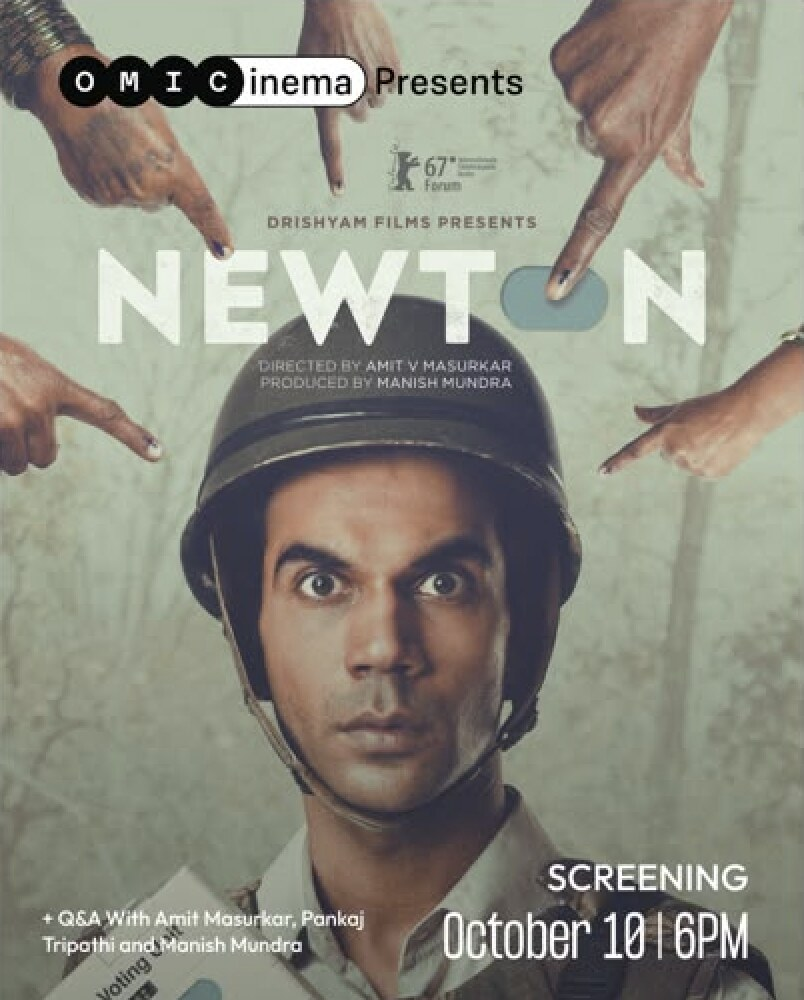
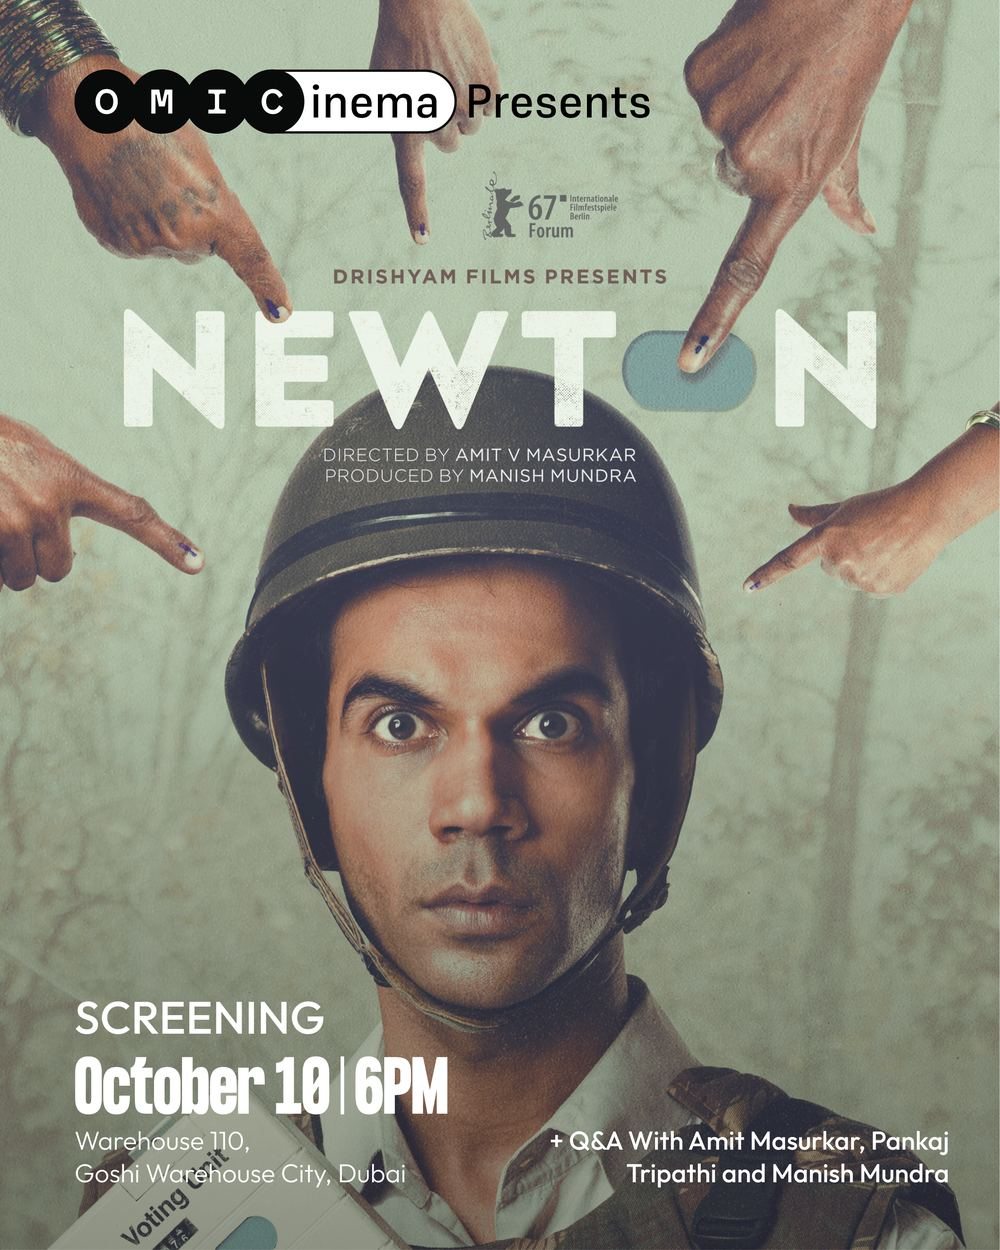
Newton: official poster, poster/trailer carousel, split notify emails
- Replaced the Newton poster with the official artwork supplied
  (OMICinema Presents / Drishyam Films, screening Oct 10 6PM at
  Goshi Warehouse City).
- The page's top image is now a poster/trailer carousel: it shows
  the poster for 2s, then a YouTube trailer thumbnail for 5s,
  looping continuously (initPosterCarousel in src/main.js). The
  trailer frame links straight to the trailer on YouTube
  (https://www.youtube.com/watch?v=yU6zMPFd4UU), opening in a new
  tab, and falls back from maxresdefault to hqdefault thumbnails
  since not every video has a maxres image. Respects
  prefers-reduced-motion by leaving the poster frame static.
- Code.gs: split the single NOTIFY_EMAIL into NEWTON_NOTIFY_EMAIL
  ('cinema@omic.spot', used only for Newton's team notification)
  and kept NOTIFY_EMAIL ('gallery@omic.spot') for every other event
  (general registration, Art Contest). Added TEST_RECIPIENT_EMAIL
  ('ayan@dviu.in') and pointed all three test_* helpers at it
  instead of a team address or a fake example.com address.

Claude-Session: https://claude.ai/code/session_01QcJZvNdZNVGEmbqVAhxTTi

diff --git a/src/main.js b/src/main.js
@@ -18,9 +18,17 @@ if (artworkForm) {
 const newtonForm = document.getElementById('newtonForm');
 
 // Only the Newton show page has this dedicated registration form (its own
-// fixed +971 phone prefix, plus seat/waitlist capacity logic).
+// UAE/India phone country select, guest-count picker, and seat/waitlist
+// capacity logic).
 if (newtonForm) {
   initNewtonForm();
+}
+
+const newtonPosterCarousel = document.getElementById('newtonPosterCarousel');
+
+// Only the Newton show page has the poster/trailer carousel.
+if (newtonPosterCarousel) {
+  initPosterCarousel(newtonPosterCarousel);
 }
 
 const artistModal = document.getElementById('artistModal');
@@ -980,6 +988,37 @@ function initNewtonForm() {
     goToThankYou(eventName, 'registration');
   });
 } // end initNewtonForm
+
+// Cross-fades between the poster image and a YouTube trailer thumbnail:
+// poster visible for 2s, then the trailer frame for 5s, looping forever.
+// Takes the carousel's root element so a page can wire up more than one of
+// these if it ever needs to. Clicking the trailer frame opens the trailer
+// on YouTube in a new tab (it's a real <a>, so this works even if the JS
+// below never runs); clicking the poster frame does nothing special.
+function initPosterCarousel(root) {
+  const layers = Array.from(root.querySelectorAll('.poster-carousel__layer'));
+  if (layers.length < 2) return;
+
+  // Respect reduced-motion: leave whichever frame is already marked
+  // visible in the HTML (the poster) showing, and don't auto-rotate.
+  if (window.matchMedia && window.matchMedia('(prefers-reduced-motion: reduce)').matches) {
+    return;
+  }
+
+  const DURATIONS = [2000, 5000]; // poster, then trailer
+  let activeIndex = layers.findIndex((layer) => layer.classList.contains('is-visible'));
+  if (activeIndex === -1) activeIndex = 0;
+
+  function showNext() {
+    const nextIndex = (activeIndex + 1) % layers.length;
+    layers[activeIndex].classList.remove('is-visible');
+    layers[nextIndex].classList.add('is-visible');
+    activeIndex = nextIndex;
+    setTimeout(showNext, DURATIONS[activeIndex]);
+  }
+
+  setTimeout(showNext, DURATIONS[activeIndex]);
+}
 
 function initArtistModal() {
   const modalPhoto = document.getElementById('artistModalPhoto');

diff --git a/src/style.css b/src/style.css
@@ -394,6 +394,84 @@ a {
   margin-bottom: 20px;
 }
 
+/* Poster/trailer carousel (e.g. Newton's page): two absolutely-positioned
+   layers cross-fade in and out, driven by initPosterCarousel in
+   src/main.js. The container keeps the poster's own portrait aspect ratio
+   so nothing shifts when the trailer frame (a 16:9 YouTube thumbnail)
+   swaps in -- that frame uses object-fit: contain instead of cover so the
+   whole thumbnail stays visible, letterboxed, rather than being cropped
+   to a portrait sliver. */
+.poster-carousel {
+  position: relative;
+  width: 100%;
+  aspect-ratio: 4 / 5;
+  border-radius: var(--radius);
+  border: 1px solid var(--cream-line);
+  overflow: hidden;
+  margin-bottom: 20px;
+  background: #15130f;
+}
+
+.poster-carousel__layer {
+  position: absolute;
+  inset: 0;
+  width: 100%;
+  height: 100%;
+  display: block;
+  opacity: 0;
+  transition: opacity 0.6s ease;
+}
+
+.poster-carousel__layer.is-visible {
+  opacity: 1;
+}
+
+.poster-carousel__poster {
+  object-fit: cover;
+}
+
+.poster-carousel__trailer {
+  background: #15130f;
+}
+
+.poster-carousel__trailer img {
+  width: 100%;
+  height: 100%;
+  object-fit: contain;
+  display: block;
+}
+
+.poster-carousel__play {
+  position: absolute;
+  top: 50%;
+  left: 50%;
+  transform: translate(-50%, -50%);
+  width: 52px;
+  height: 52px;
+  border-radius: 999px;
+  background: rgba(0, 0, 0, 0.65);
+  color: #fff;
+  display: flex;
+  align-items: center;
+  justify-content: center;
+  pointer-events: none;
+}
+
+.poster-carousel__trailer-label {
+  position: absolute;
+  left: 14px;
+  bottom: 14px;
+  padding: 6px 12px;
+  border-radius: 999px;
+  background: rgba(0, 0, 0, 0.65);
+  color: #fff;
+  font-size: 12px;
+  font-weight: 700;
+  letter-spacing: 0.03em;
+  text-transform: uppercase;
+  pointer-events: none;
+}
+
 .tag-row {
   display: flex;
   flex-wrap: wrap;

diff --git a/newton.html b/newton.html
@@ -60,7 +60,32 @@
     <section class="content content--top">
       <div class="eyebrow-badge"><span class="dot dot--blue"></span>Upcoming Screening</div>
 
-      <img class="poster" src="/posters/newton.jpg" alt="OMICinema presents Newton, directed by Amit V. Masurkar, produced by Manish Mundra. Screening followed by a Q&amp;A with Amit Masurkar, Pankaj Tripathi, and Manish Mundra. Official Selection, 67th Berlin International Film Festival, Forum." />
+      <div class="poster-carousel" id="newtonPosterCarousel">
+        <img
+          class="poster-carousel__layer poster-carousel__poster is-visible"
+          src="/posters/newton.jpg"
+          alt="OMICinema presents Newton, directed by Amit V. Masurkar, produced by Manish Mundra. Screening followed by a Q&amp;A with Amit Masurkar, Pankaj Tripathi, and Manish Mundra. Official Selection, 67th Berlin International Film Festival, Forum."
+          data-carousel-frame="poster"
+        />
+        <a
+          class="poster-carousel__layer poster-carousel__trailer"
+          href="https://www.youtube.com/watch?v=yU6zMPFd4UU"
+          target="_blank"
+          rel="noopener"
+          aria-label="Watch the Newton trailer on YouTube (opens in a new tab)"
+          data-carousel-frame="trailer"
+        >
+          <img
+            src="https://img.youtube.com/vi/yU6zMPFd4UU/maxresdefault.jpg"
+            alt=""
+            onerror="this.onerror=null;this.src='https://img.youtube.com/vi/yU6zMPFd4UU/hqdefault.jpg';"
+          />
+          <span class="poster-carousel__play" aria-hidden="true">
+            <svg width="22" height="22" viewBox="0 0 24 24" fill="currentColor"><path d="M8 5v14l11-7z"/></svg>
+          </span>
+          <span class="poster-carousel__trailer-label">Watch Trailer</span>
+        </a>
+      </div>
     </section>
 
     <aside class="sidebar" id="register">
